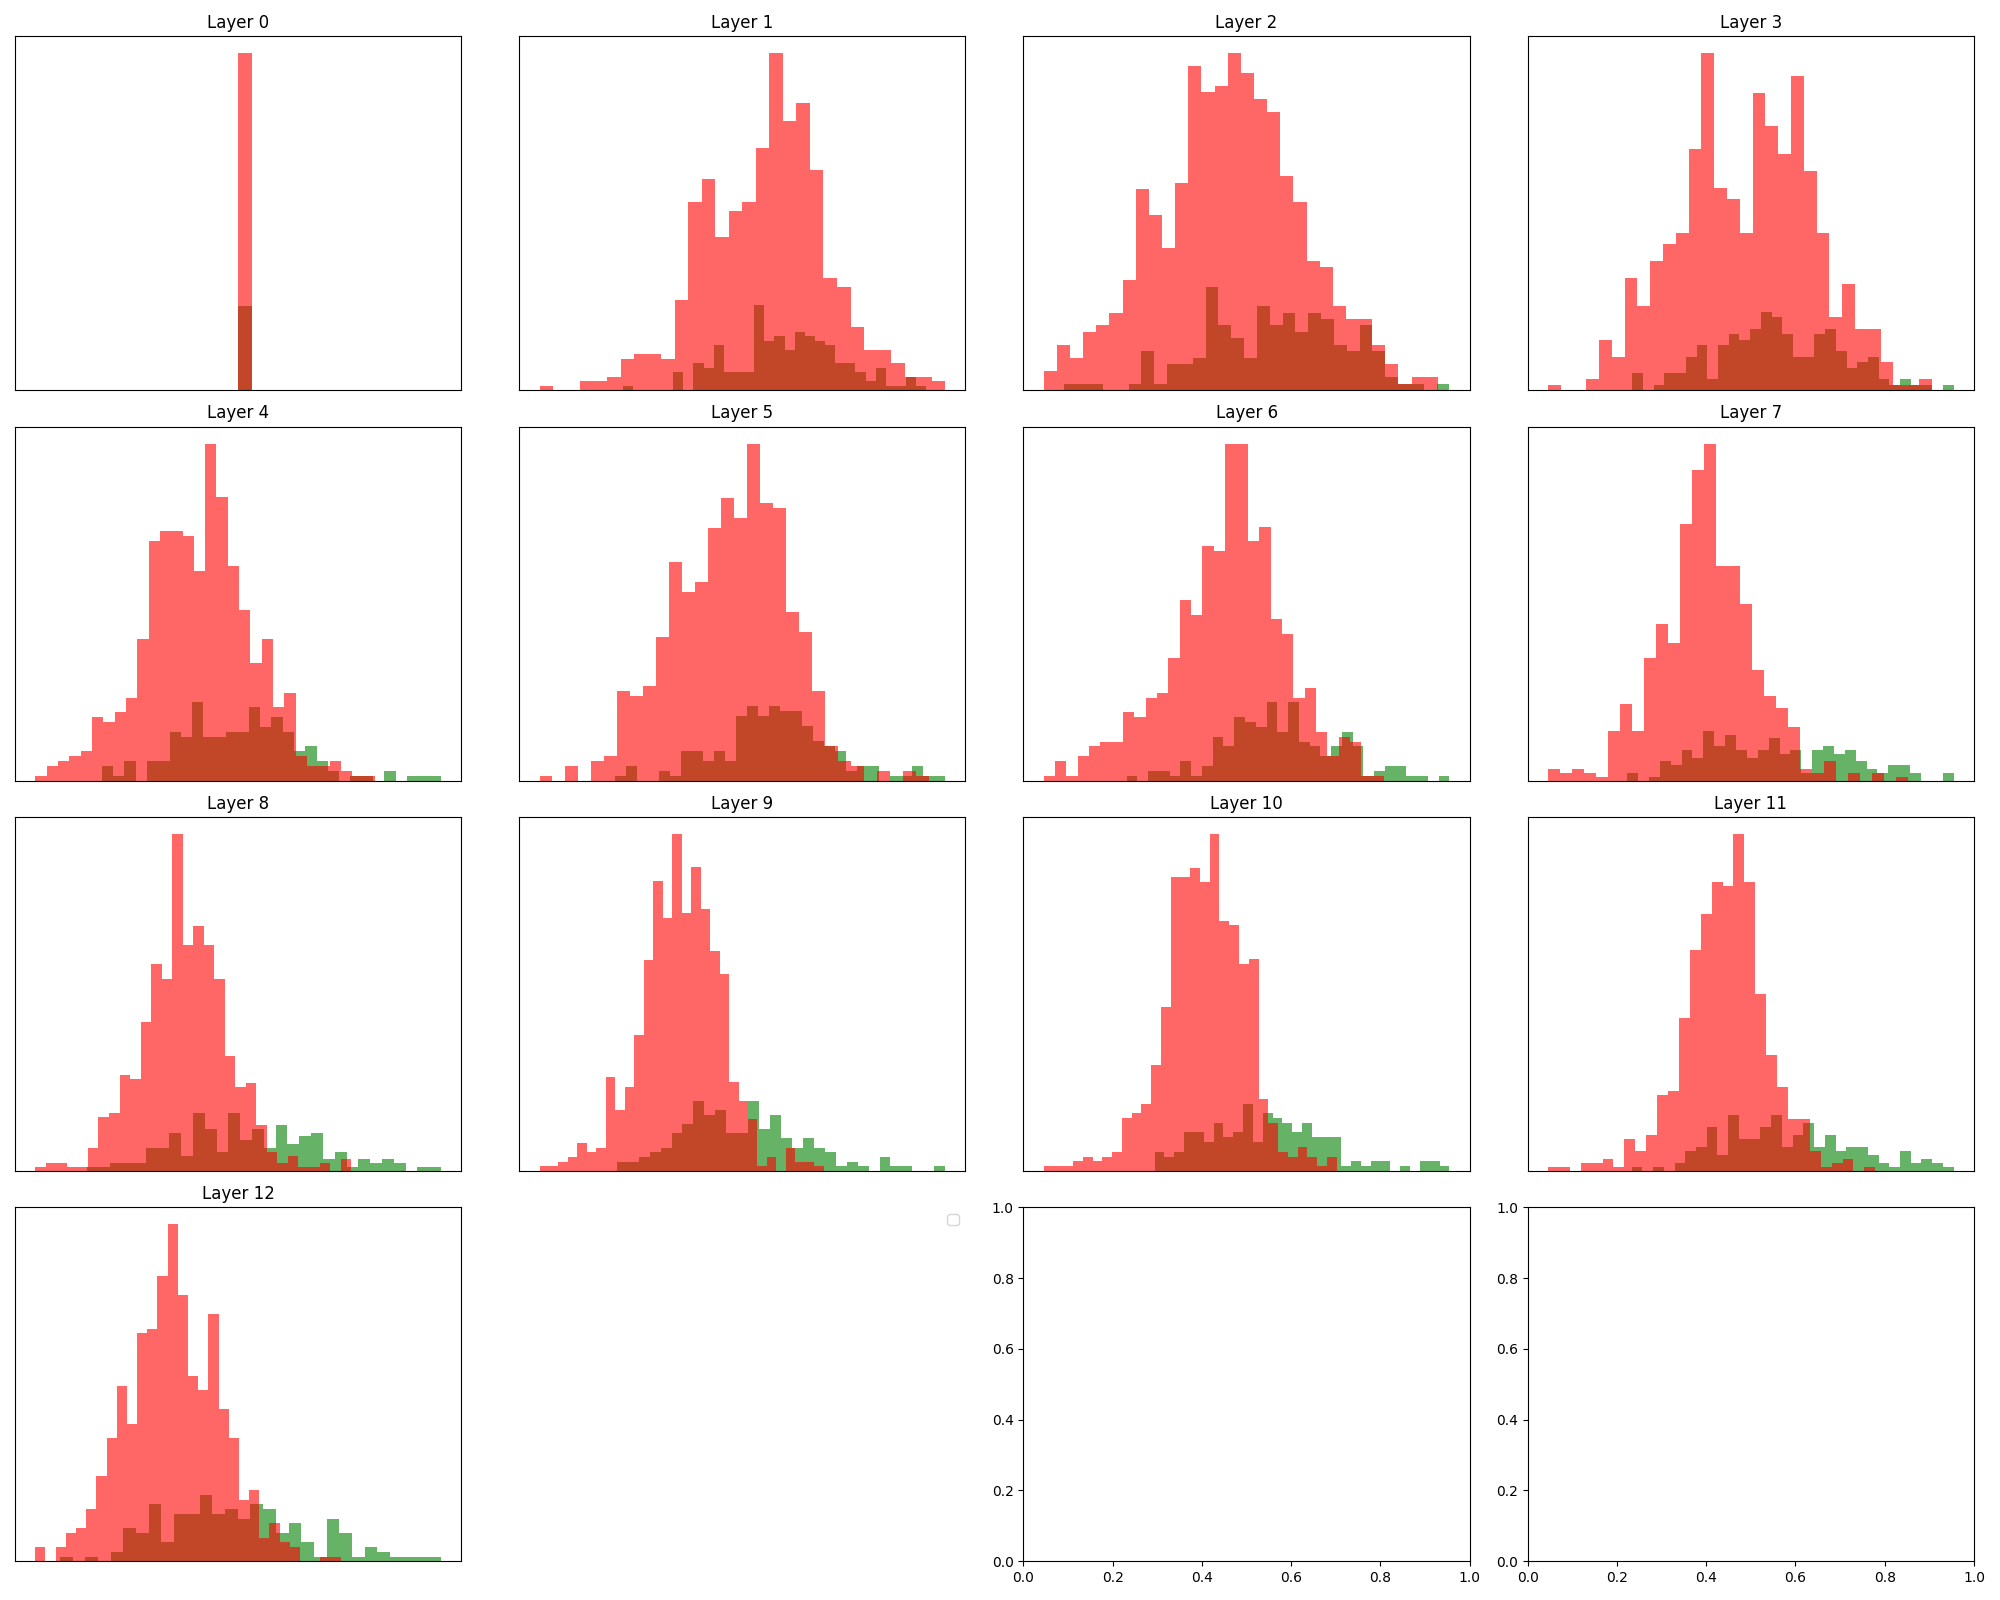
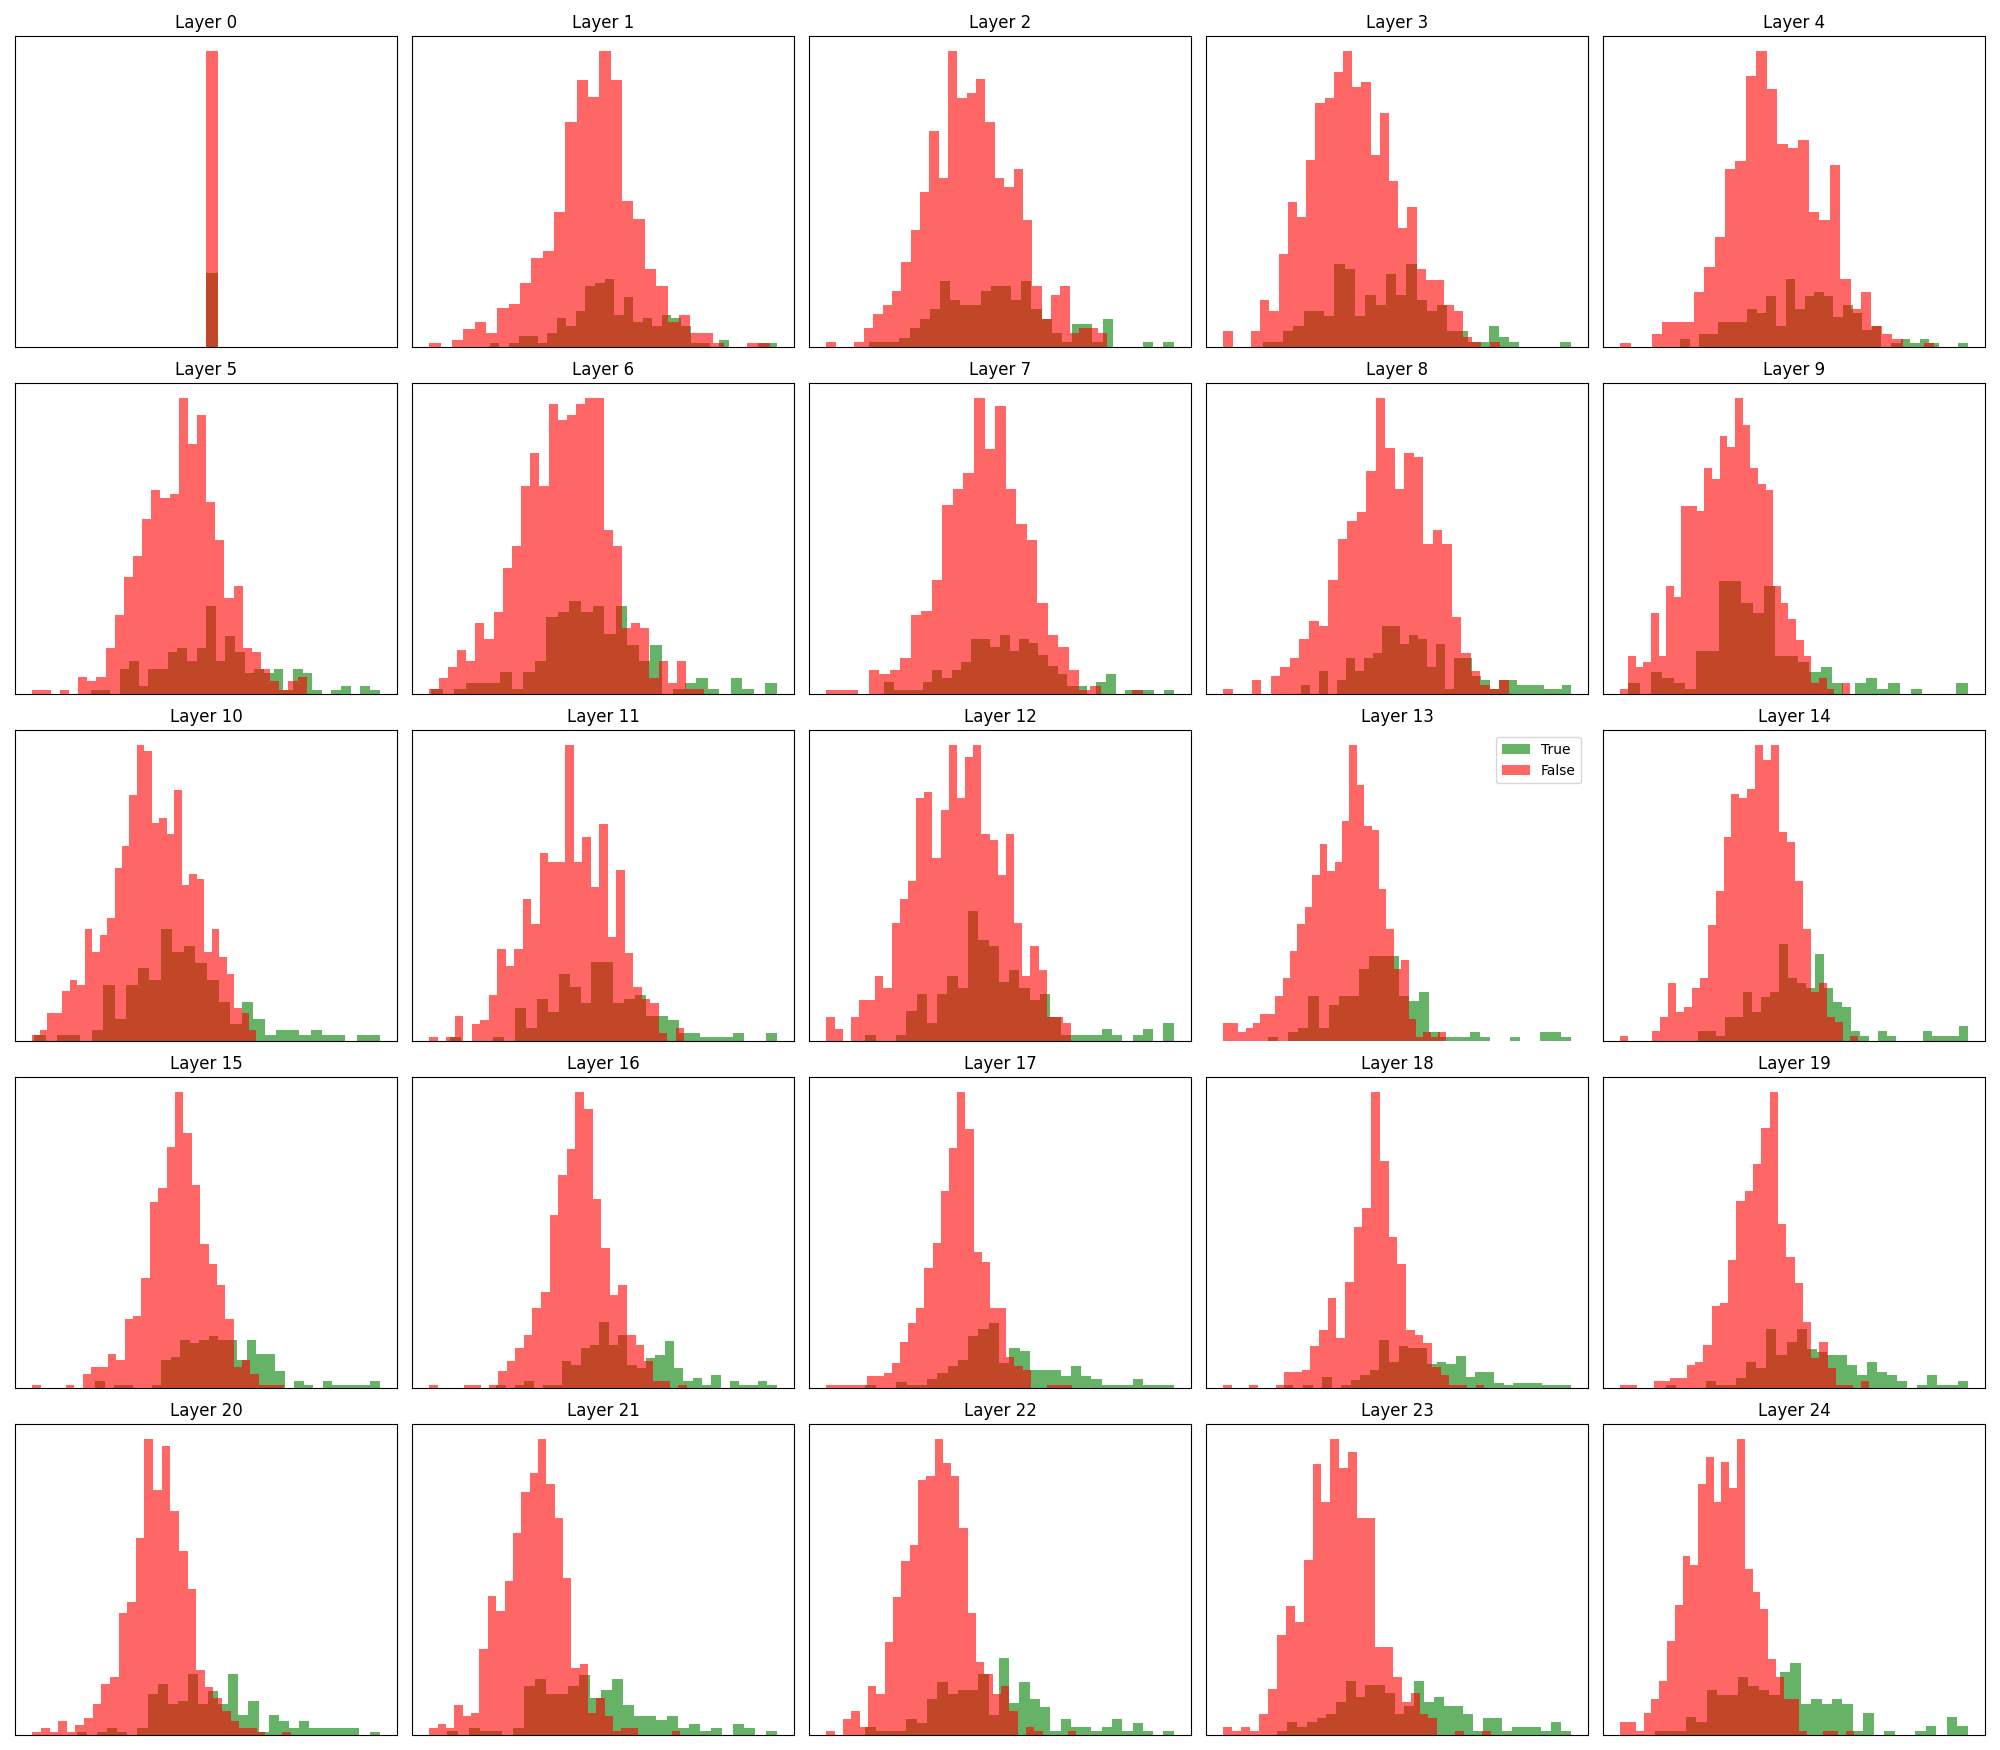
Comparing models

diff --git a/20250422 Toy Model/main.py b/20250422 Toy Model/main.py
@@ -8,6 +8,7 @@
 # ]
 # ///
 
+import math
 from sklearn.manifold import TSNE
 from sklearn.metrics import confusion_matrix, ConfusionMatrixDisplay
 from sklearn.decomposition import PCA
@@ -24,6 +25,9 @@ from sklearn.model_selection import train_test_split
 # --------------------
 dataset_source = "truthfulqa"  # 'truthfulqa' or 'boolq' or 'both'
 
+# ✅ Model config
+bert_model_name = "bert-base-uncased"  # or "bert-base-uncased"
+
 # --------------------
 # ✅ Device setup (MPS on Mac)
 # --------------------
@@ -34,9 +38,9 @@ print(f"🖥  Using device: {device}")
 # ✅ Load BERT
 # --------------------
 print("📦 Loading BERT model and tokenizer...")
-tokenizer = BertTokenizer.from_pretrained('bert-base-uncased')
+tokenizer = BertTokenizer.from_pretrained(bert_model_name)
 model = BertModel.from_pretrained(
-    'bert-base-uncased', output_hidden_states=True).to(device)
+    bert_model_name, output_hidden_states=True).to(device)
 model.eval()
 print("✅ BERT is ready.")
 
@@ -168,7 +172,7 @@ print("🚀 Training linear probes on TRAIN and evaluating on TEST...")
 probes = []
 accuracies = []
 
-for layer in range(13):
+for layer in range(model.config.num_hidden_layers + 1):  # 25 for BERT-large
     train_feats = train_hidden_states[:, layer, :]
     test_feats = test_hidden_states[:, layer, :]
     train_lbls = train_labels
@@ -190,9 +194,10 @@ for layer in range(13):
 # ✅ Plot Accuracy vs. BERT Layer
 # --------------------
 print("📊 Plotting accuracy by layer...")
-plt.plot(range(13), accuracies, marker='o')
-plt.title("Truth Detection Accuracy per BERT Layer (TruthfulQA)")
-plt.xlabel("BERT Layer (0=Embedding, 1-12=Transformer Layers)")
+plt.plot(range(len(accuracies)), accuracies, marker='o')
+plt.title(
+    f"Truth Detection Accuracy per BERT Layer ({model.config.name_or_path})")
+plt.xlabel("BERT Layer (0=Embedding, 1-25=Transformer Layers)")
 plt.ylabel("Accuracy")
 plt.grid(True)
 plt.tight_layout()
@@ -209,7 +214,7 @@ print("✅ Plot saved as output.png")
 # fig, axs = plt.subplots(3, 5, figsize=(20, 12))
 # axs = axs.flatten()
 
-# for layer in range(13):
+# for layer in range(model.config.num_hidden_layers + 1):  # 25 for BERT-large
 #     feats = test_hidden_states[:, layer, :].cpu().numpy()
 #     lbls = test_labels.cpu().numpy()
 
@@ -264,10 +269,11 @@ print("✅ Plot saved as output.png")
 
 print("📈 Generating truth direction projection histograms for all layers...")
 
-fig, axs = plt.subplots(4, 4, figsize=(20, 16))
+rows = cols = math.ceil((model.config.num_hidden_layers + 1) ** 0.5)
+fig, axs = plt.subplots(rows, cols, figsize=(cols * 4, rows * 3.5))
 axs = axs.flatten()
 
-for layer in range(13):
+for layer in range(model.config.num_hidden_layers + 1):
     feats = test_hidden_states[:, layer, :]
     lbls = test_labels
 
